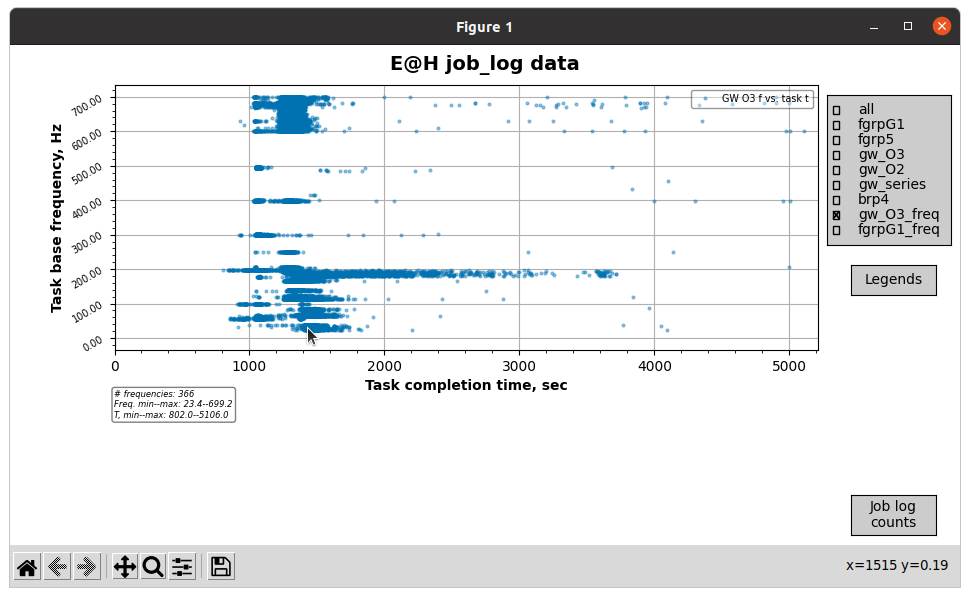
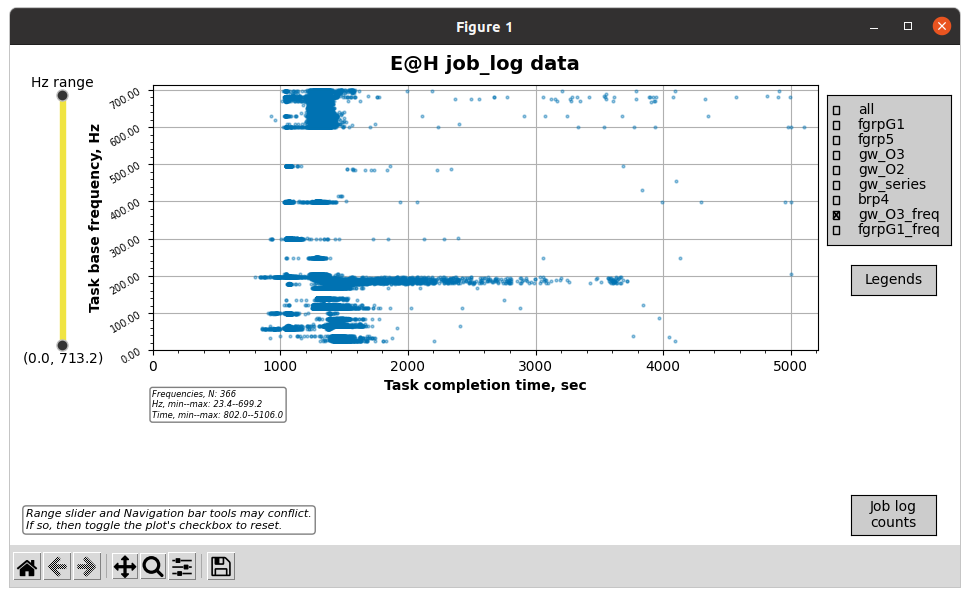
Ver. 0.0.8: update README.md

diff --git a/README.md b/README.md
@@ -74,6 +74,10 @@ Plot of gravitational wave task frequencies vs. task times.
 
 Zoom-in on lowest frequency group of tasks, then click in bottom cluster to obtain details of tasks near those plot coordinates.
 
+![plot hz_range](images/gw_freq_slider.png)
+
+Use Hz range slider as an alternative way to zoom in on frequency ranges. The slider and Navigation bar tools don't always work well together, so generally use one or the other.
+
 ### Keyboard shortcuts for navigation bar buttons and actions
 
 | Action     | Key                      | Description                                                                |
